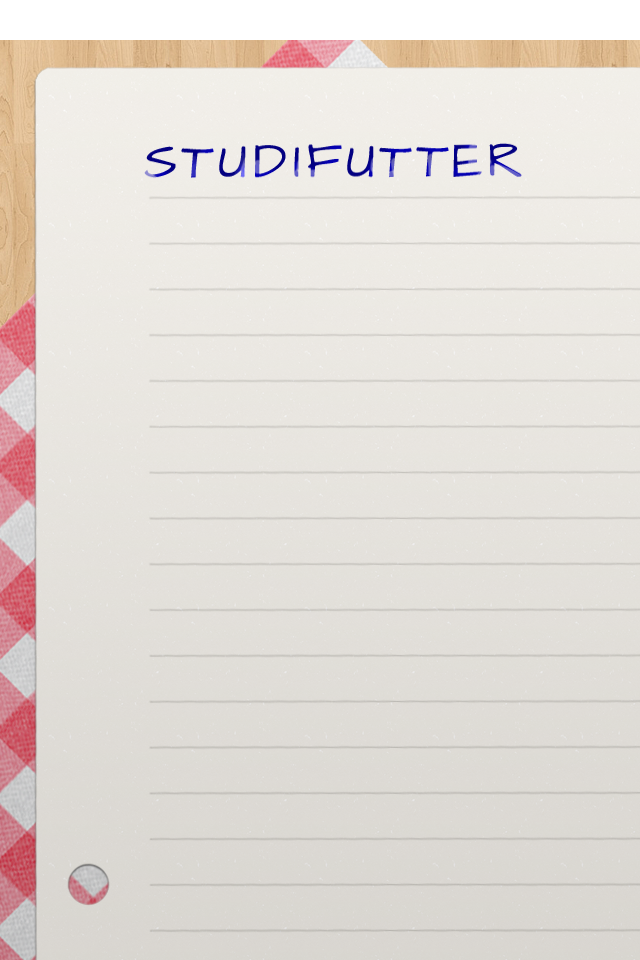
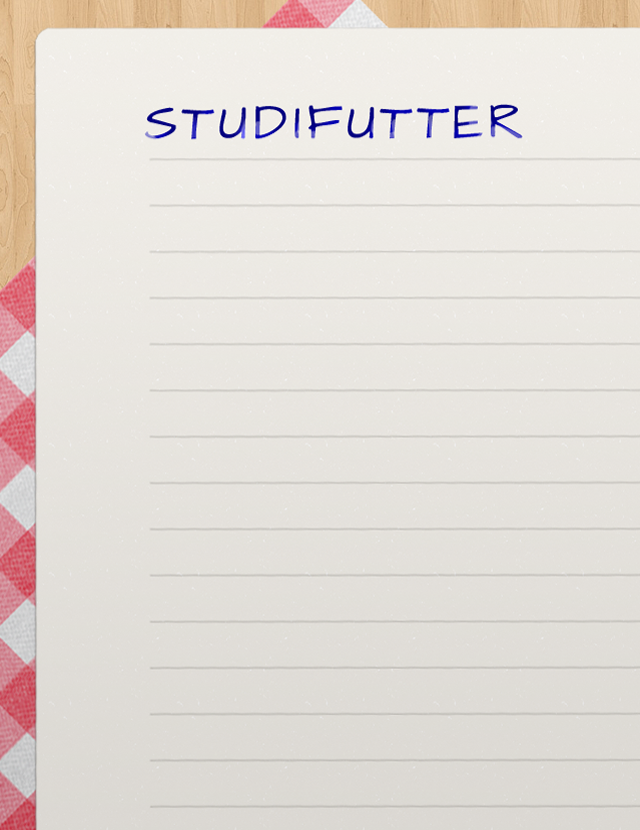
- cleanup graphics - adding SFViewController and SFTableViewController
git-svn-id: http://svn.rtfnt.com/svn/studifutter/dev/trunk@90 dd375700-57de-49ca-a908-404e403163fd

diff --git a/app/Studifutter/SFTableViewController.m b/app/Studifutter/SFTableViewController.m
@@ -1,0 +1,159 @@
+//
+//  SFTableViewController.m
+//  Studifutter
+//
+//  Created by Florian Heiber on 24.11.11.
+//  Copyright (c) 2011 rootof.net Heiber & Wiewel GbR. All rights reserved.
+//
+
+#import "SFTableViewController.h"
+
+
+@implementation SFTableViewController
+
+- (id)initWithStyle:(UITableViewStyle)style
+{
+    self = [super initWithStyle:style];
+    if (self) {
+        // Custom initialization
+    }
+    return self;
+}
+
+- (void)didReceiveMemoryWarning
+{
+    // Releases the view if it doesn't have a superview.
+    [super didReceiveMemoryWarning];
+    
+    // Release any cached data, images, etc that aren't in use.
+}
+
+#pragma mark - View lifecycle
+
+- (void)viewDidLoad
+{
+    [super viewDidLoad];
+
+    // Uncomment the following line to preserve selection between presentations.
+    // self.clearsSelectionOnViewWillAppear = NO;
+ 
+    // Uncomment the following line to display an Edit button in the navigation bar for this view controller.
+    // self.navigationItem.rightBarButtonItem = self.editButtonItem;
+}
+
+- (void)viewDidUnload
+{
+    [super viewDidUnload];
+    // Release any retained subviews of the main view.
+    // e.g. self.myOutlet = nil;
+}
+
+- (void)viewWillAppear:(BOOL)animated
+{
+    [super viewWillAppear:animated];
+}
+
+- (void)viewDidAppear:(BOOL)animated
+{
+    [super viewDidAppear:animated];
+}
+
+- (void)viewWillDisappear:(BOOL)animated
+{
+    [super viewWillDisappear:animated];
+}
+
+- (void)viewDidDisappear:(BOOL)animated
+{
+    [super viewDidDisappear:animated];
+}
+
+- (BOOL)shouldAutorotateToInterfaceOrientation:(UIInterfaceOrientation)interfaceOrientation
+{
+    // Return YES for supported orientations
+    return (interfaceOrientation == UIInterfaceOrientationPortrait);
+}
+
+#pragma mark - Table view data source
+
+- (NSInteger)numberOfSectionsInTableView:(UITableView *)tableView
+{
+#warning Potentially incomplete method implementation.
+    // Return the number of sections.
+    return 0;
+}
+
+- (NSInteger)tableView:(UITableView *)tableView numberOfRowsInSection:(NSInteger)section
+{
+#warning Incomplete method implementation.
+    // Return the number of rows in the section.
+    return 0;
+}
+
+- (UITableViewCell *)tableView:(UITableView *)tableView cellForRowAtIndexPath:(NSIndexPath *)indexPath
+{
+    static NSString *CellIdentifier = @"Cell";
+    
+    UITableViewCell *cell = [tableView dequeueReusableCellWithIdentifier:CellIdentifier];
+    if (cell == nil) {
+        cell = [[UITableViewCell alloc] initWithStyle:UITableViewCellStyleDefault reuseIdentifier:CellIdentifier];
+    }
+    
+    // Configure the cell...
+    
+    return cell;
+}
+
+/*
+// Override to support conditional editing of the table view.
+- (BOOL)tableView:(UITableView *)tableView canEditRowAtIndexPath:(NSIndexPath *)indexPath
+{
+    // Return NO if you do not want the specified item to be editable.
+    return YES;
+}
+*/
+
+/*
+// Override to support editing the table view.
+- (void)tableView:(UITableView *)tableView commitEditingStyle:(UITableViewCellEditingStyle)editingStyle forRowAtIndexPath:(NSIndexPath *)indexPath
+{
+    if (editingStyle == UITableViewCellEditingStyleDelete) {
+        // Delete the row from the data source
+        [tableView deleteRowsAtIndexPaths:[NSArray arrayWithObject:indexPath] withRowAnimation:UITableViewRowAnimationFade];
+    }   
+    else if (editingStyle == UITableViewCellEditingStyleInsert) {
+        // Create a new instance of the appropriate class, insert it into the array, and add a new row to the table view
+    }   
+}
+*/
+
+/*
+// Override to support rearranging the table view.
+- (void)tableView:(UITableView *)tableView moveRowAtIndexPath:(NSIndexPath *)fromIndexPath toIndexPath:(NSIndexPath *)toIndexPath
+{
+}
+*/
+
+/*
+// Override to support conditional rearranging of the table view.
+- (BOOL)tableView:(UITableView *)tableView canMoveRowAtIndexPath:(NSIndexPath *)indexPath
+{
+    // Return NO if you do not want the item to be re-orderable.
+    return YES;
+}
+*/
+
+#pragma mark - Table view delegate
+
+- (void)tableView:(UITableView *)tableView didSelectRowAtIndexPath:(NSIndexPath *)indexPath
+{
+    // Navigation logic may go here. Create and push another view controller.
+    /*
+     <#DetailViewController#> *detailViewController = [[<#DetailViewController#> alloc] initWithNibName:@"<#Nib name#>" bundle:nil];
+     // ...
+     // Pass the selected object to the new view controller.
+     [self.navigationController pushViewController:detailViewController animated:YES];
+     */
+}
+
+@end

diff --git a/app/Studifutter/SFViewController.m b/app/Studifutter/SFViewController.m
@@ -1,0 +1,53 @@
+//
+//  SFViewController.m
+//  Studifutter
+//
+//  Created by Florian Heiber on 24.11.11.
+//  Copyright (c) 2011 rootof.net Heiber & Wiewel GbR. All rights reserved.
+//
+
+#import "SFViewController.h"
+
+@implementation SFViewController
+
+- (id)initWithNibName:(NSString *)nibNameOrNil bundle:(NSBundle *)nibBundleOrNil
+{
+    self = [super initWithNibName:nibNameOrNil bundle:nibBundleOrNil];
+    if (self) {
+        // Custom initialization
+    }
+    return self;
+}
+
+- (void)didReceiveMemoryWarning
+{
+    // Releases the view if it doesn't have a superview.
+    [super didReceiveMemoryWarning];
+    
+    // Release any cached data, images, etc that aren't in use.
+}
+
+#pragma mark - View lifecycle
+
+// Implement viewDidLoad to do additional setup after loading the view, typically from a nib.
+- (void)viewDidLoad
+{
+    [super viewDidLoad];
+    
+    [[self view] setBackgroundColor:[UIColor colorWithPatternImage:<#(UIImage *)#>];
+}
+
+- (void)viewDidUnload
+{
+    [super viewDidUnload];
+    // Release any retained subviews of the main view.
+    // e.g. self.myOutlet = nil;
+}
+
+- (BOOL)shouldAutorotateToInterfaceOrientation:(UIInterfaceOrientation)interfaceOrientation
+{
+    // Return YES for supported orientations
+    return (interfaceOrientation == UIInterfaceOrientationPortrait);
+}
+
+@end

diff --git a/app/Studifutter/SFTableViewController.h b/app/Studifutter/SFTableViewController.h
@@ -1,0 +1,13 @@
+//
+//  SFTableViewController.h
+//  Studifutter
+//
+//  Created by Florian Heiber on 24.11.11.
+//  Copyright (c) 2011 rootof.net Heiber & Wiewel GbR. All rights reserved.
+//
+
+#import <UIKit/UIKit.h>
+
+@interface SFTableViewController : UITableViewController
+
+@end

diff --git a/app/Studifutter/SFViewController.h b/app/Studifutter/SFViewController.h
@@ -1,0 +1,13 @@
+//
+//  SFViewController.h
+//  Studifutter
+//
+//  Created by Florian Heiber on 24.11.11.
+//  Copyright (c) 2011 rootof.net Heiber & Wiewel GbR. All rights reserved.
+//
+
+#import <UIKit/UIKit.h>
+
+@interface SFViewController : UIViewController
+
+@end
